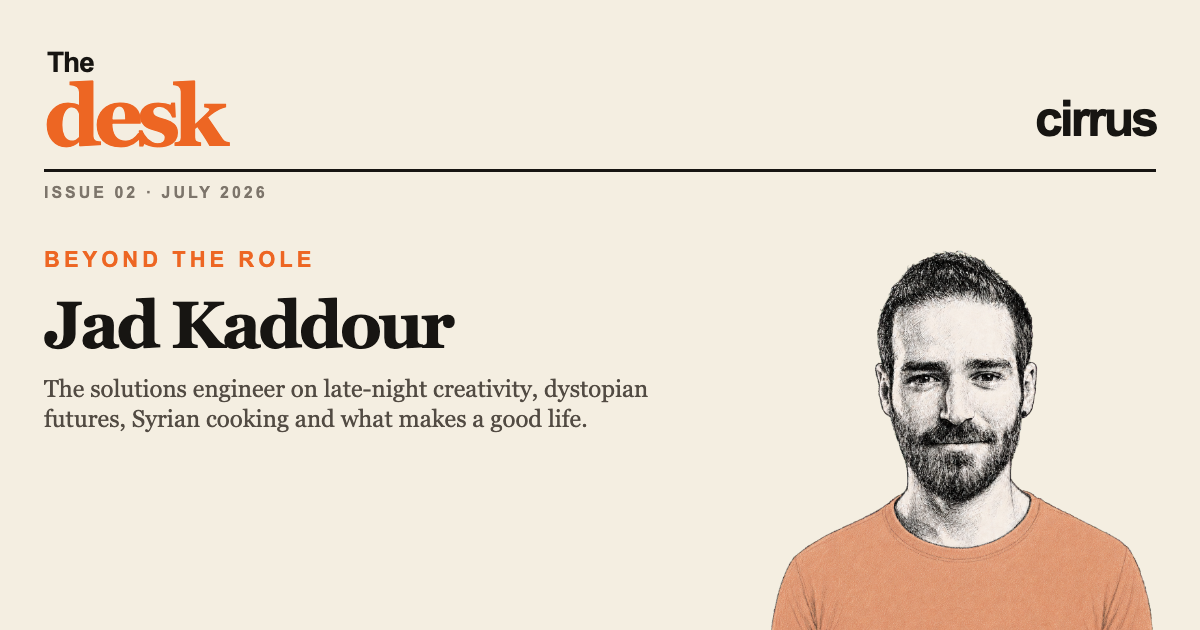
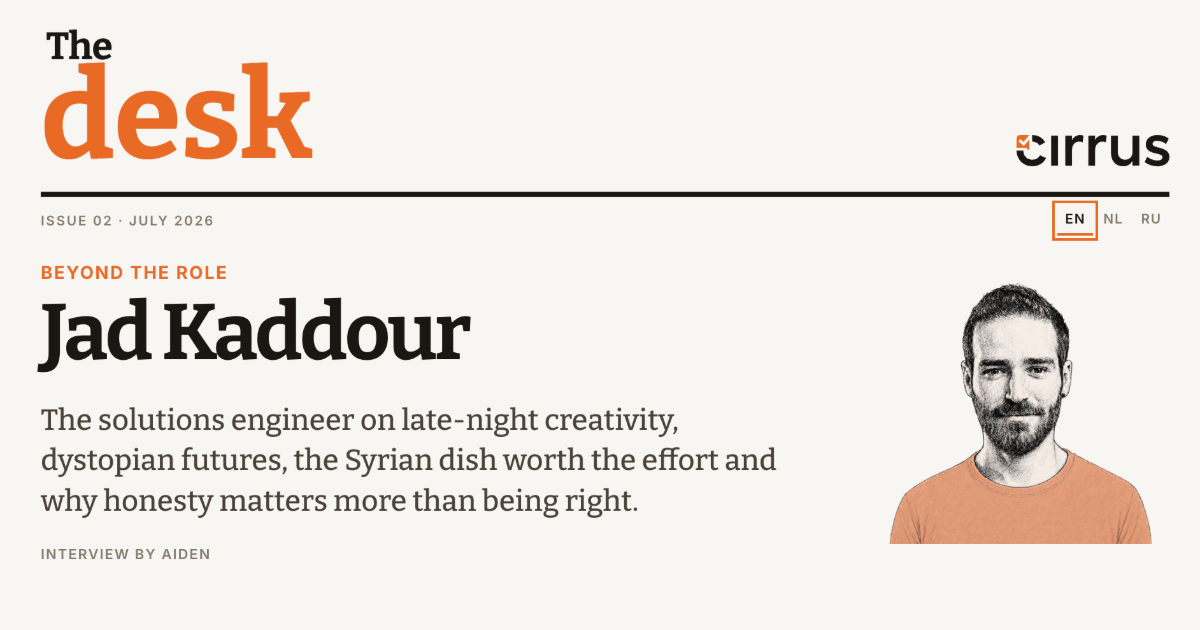
Match issue 02 social preview to article hero

diff --git a/index.html b/index.html
@@ -15,15 +15,15 @@
 <meta property="og:type" content="website">
 <meta property="og:site_name" content="The desk">
 <meta property="og:title" content="Beyond the role: Jad Kaddour">
-<meta property="og:description" content="Meet the person behind the role: late-night creativity, dystopian futures, Syrian cooking and the values that matter.">
-<meta property="og:image" content="https://cirrus-assessment.github.io/the-desk/2026-07/og.png?v=1">
+<meta property="og:description" content="The solutions engineer on late-night creativity, dystopian futures, the Syrian dish worth the effort and why honesty matters more than being right.">
+<meta property="og:image" content="https://cirrus-assessment.github.io/the-desk/2026-07/og.png?v=2">
 <meta property="og:image:width" content="1200">
 <meta property="og:image:height" content="630">
 <meta property="og:url" content="https://cirrus-assessment.github.io/the-desk/">
 <meta name="twitter:card" content="summary_large_image">
 <meta name="twitter:title" content="Beyond the role: Jad Kaddour · The desk">
-<meta name="twitter:description" content="Meet the person behind the role: late-night creativity, dystopian futures, Syrian cooking and the values that matter.">
-<meta name="twitter:image" content="https://cirrus-assessment.github.io/the-desk/2026-07/og.png?v=1">
+<meta name="twitter:description" content="The solutions engineer on late-night creativity, dystopian futures, the Syrian dish worth the effort and why honesty matters more than being right.">
+<meta name="twitter:image" content="https://cirrus-assessment.github.io/the-desk/2026-07/og.png?v=2">
 
 <style>html,body{margin:0;height:100%;background:#F4EFE3;font-family:system-ui,-apple-system,sans-serif;color:#1A1612}body{display:flex;align-items:center;justify-content:center;text-align:center}a{color:#E76A25;text-decoration:none}</style>
 </head>

diff --git a/2026-07/index.html b/2026-07/index.html
@@ -14,15 +14,15 @@
 <meta property="og:type" content="article">
 <meta property="og:site_name" content="The desk">
 <meta property="og:title" content="Beyond the role: Jad Kaddour">
-<meta property="og:description" content="Meet the person behind the role: late-night creativity, dystopian futures, Syrian cooking and the values that matter.">
-<meta property="og:image" content="https://cirrus-assessment.github.io/the-desk/2026-07/og.png?v=1">
+<meta property="og:description" content="The solutions engineer on late-night creativity, dystopian futures, the Syrian dish worth the effort and why honesty matters more than being right.">
+<meta property="og:image" content="https://cirrus-assessment.github.io/the-desk/2026-07/og.png?v=2">
 <meta property="og:image:width" content="1200">
 <meta property="og:image:height" content="630">
 <meta property="og:url" content="https://cirrus-assessment.github.io/the-desk/2026-07/">
 <meta name="twitter:card" content="summary_large_image">
 <meta name="twitter:title" content="Beyond the role: Jad Kaddour · The desk">
-<meta name="twitter:description" content="Meet the person behind the role: late-night creativity, dystopian futures, Syrian cooking and the values that matter.">
-<meta name="twitter:image" content="https://cirrus-assessment.github.io/the-desk/2026-07/og.png?v=1">
+<meta name="twitter:description" content="The solutions engineer on late-night creativity, dystopian futures, the Syrian dish worth the effort and why honesty matters more than being right.">
+<meta name="twitter:image" content="https://cirrus-assessment.github.io/the-desk/2026-07/og.png?v=2">
 
 <link href="https://fonts.googleapis.com/css2?family=Bitter:wght@500;700&family=Inter:wght@500;600&display=swap" rel="stylesheet">
 <style>
